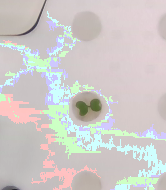
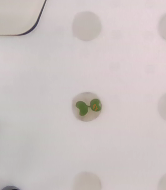
Made mutation better

Changed region(s): [[0.0, 0.0526, 1.0, 1.0], [0.5422, 0.5526, 0.6024, 0.5789]]

diff --git a/classes/GeneticHelp.py b/classes/GeneticHelp.py
@@ -48,13 +48,44 @@ class GeneticHelp(object):
 			It is computed seperately for each value. 
 	'''
 	def mutate(copyChild, posVals, flipProb = 0.5):
+
 		#Just because we chose to mutate a value doesn't mean we mutate
 		#Every aspect of the value	
 		child = copy.deepcopy(copyChild)
-		for index in range(0, len(child)):
+
+		#Not every algorithm is associated with every value
+		#Let's first see if we change the algorithm
+		randVal = random.random()
+		if randVal < flipProb:
+			#Let's mutate
+			child[0] = random.choice(posVals[0])
+		#Now let's get the indexes (parameters) related to that value
+		switcher = {
+			'RW': [1, 2],
+			'FB': [3, 4, 5],
+			'SC': [6, 7, 8, 4, ],
+			'QS': [9, 10, 11, 12],
+			'WS': [7],
+			'CV': [13, 14, 2, 8, 15, 16],
+			'MCV': [8, 17, 18, 14],
+			'AC': [20, 4,  18, 19, 21],
+			'FD': [22, 13, 2, ], 
+			#Note, index 22 is the seed point. Will have to used diff possible values
+			'FF': [22, 13, 2]
+		}
+		indexes = switcher.get(child[0])
+
+		for index in indexes:
 			randVal = random.random()
 			if randVal < flipProb:
 				#Then we mutate said value
+				if index == 22:
+					#Do some special shit
+					X = random.choice(posVals[22])
+					Y = random.choice(posVals[23])
+					Z = random.choice(posVals[24])
+					child[index] = (X, Y, Z)
+					continue
 
 				child[index] = random.choice(posVals[index])
 		return child		
@@ -87,7 +118,7 @@ class GeneticHelp(object):
 		del img1
 		del img2
 		#print("eror above?")
-		return [ssim,]
+		return [abs(ssim),]
 
 	'''Runs an imaging algorithm given the parameters from the 
 		population
@@ -97,7 +128,6 @@ class GeneticHelp(object):
 	individual is the parameter that we chose
 	'''
 	def runAlgo(copyImg, valImg, individual):
-		#print("Pixel: ", Image.fromarray(valImg.getImage()).getextrema())
 
 		img = copy.deepcopy(copyImg)
 		#Making an AlorithmParams object
@@ -108,7 +138,9 @@ class GeneticHelp(object):
 			individual[12], individual[13], individual[14], 
 			individual[15][0],individual[15][1], individual[16],
 			individual[17], individual[18], individual[19], 'auto',
-			individual[20], individual[21], individual[22])
+			individual[20], individual[21], individual[22], 
+			individual[23], individual[24])
+
 
 
 		Algo = AlgorithmSpace.AlgorithmSpace(params)

diff --git a/main.py b/main.py
@@ -13,6 +13,7 @@ from deap import creator
 from deap import tools
 from skimage import segmentation
 import scoop
+from scoop import futures
 import cv2
 import time
 import gc
@@ -33,7 +34,7 @@ from classes.RandomHelp import RandomHelp as RandHelp
 IMAGE_PATH = 'Image_data\\Coco_2017_unlabeled\\rgbd_plant'
 VALIDATION_PATH = 'Image_data\\Coco_2017_unlabeled\\rgbd_new_label'
 SEED = 134
-POPULATION = 1000
+POPULATION = 100
 GENERATIONS = 10
 
 
@@ -105,11 +106,11 @@ if __name__ == '__main__':
 	y = AllImages[0].getShape()[1]
 	z = 0
 	if (AllImages[0].getDim() > 2):
-		z = AllImages[0].getShape()[2]
+		z = AllImages[0].getShape()[2] -1
 
 	seedX = [ix for ix in range(0, x)]
 	seedY = [iy for iy in range(0, y)]
-	seedZ = [iz for iz in range(0, z)]
+	seedZ = [z]
 
 	AllVals = [Algos, betas, tolerance, scale, sigma, min_size,
 			  n_segments, compactness, iterations, ratio, kernel, 
@@ -136,9 +137,8 @@ if __name__ == '__main__':
 	toolbox.register("mate", GA.skimageCrossRandom) #crossover
 	toolbox.register("evaluate", GA.runAlgo) #Fitness
 	toolbox.register("mutate", GA.mutate) #Mutation
-	toolbox.register("select", tools.selTournament, tournsize=5)
-	
-	#Selection
+	toolbox.register("select", tools.selTournament, tournsize=5) #Selection
+	toolbox.register("map", futures.map) #So that we can use scoop
 	#May want to later do a different selection process
 	
 	#Here we register all the parameters to the toolbox
@@ -298,6 +298,7 @@ if __name__ == '__main__':
 		print(" Avg: ", mean)
 		print(" Std: ", stdev)
 		print(" Size: ", leng)
+		print(" Time: ", time.time() - initTime)
 		gc.collect()
 		#Did we improve the population?
 		pastPop = pop
@@ -332,6 +333,6 @@ if __name__ == '__main__':
 		best[7], best[8], best[9], best[10], best[11], best[12], 
 		best[13], best[14], best[15][0], best[15][1], best[16], 
 		best[17], best[18], best[19], 'auto', best[20], best[21], 
-		best[22]))
+		best[22], best[23], best[24]))
 	img = Space.runAlgo()
 	cv2.imwrite("dummy.png", img)

diff --git a/classes/AlgorithmSpace.py b/classes/AlgorithmSpace.py
@@ -29,7 +29,7 @@ class AlgorithmSpace(object):
 		if (self.params.getImage().getDim() > 2):
 			#This is at least a 3D array, so multichannel
 			self.channel = True
-		self.newVal = 255
+		self.newVal = 134
 	
 
 	#Algorithms
@@ -373,8 +373,7 @@ class AlgorithmSpace(object):
 	def __runFlood(self):
 		output = skimage.segmentation.flood(
 			self.params.getImage().getImage(),
-			self.params.getSeedPoint(), selem=
-			self.params.getTolerance(), connectivity=
+			self.params.getSeedPoint(), connectivity=
 			self.params.getConnect(), tolerance=
 			self.params.getTolerance())
 		return output
